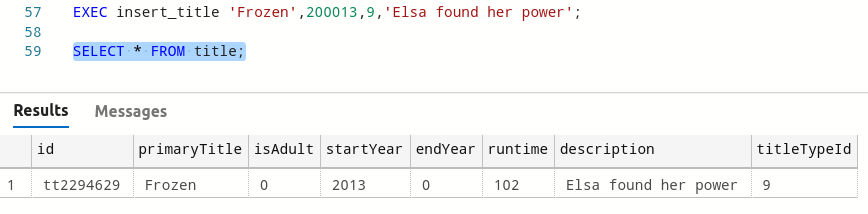
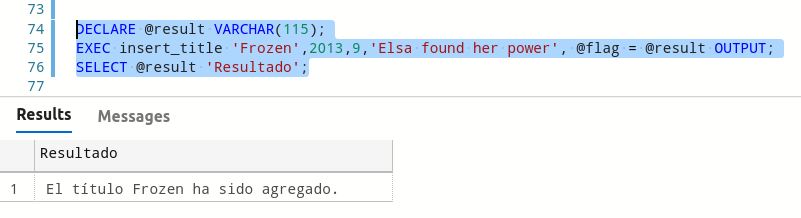
fix stored procedure

diff --git a/client/main.py b/client/main.py
@@ -1,9 +1,10 @@
 import pymssql  
+import base64
 import os
 
 conn = pymssql.connect(server='192.168.1.31', 
     user='SA', 
-    password='amarillo8S*', 
+    password= base64.b64decode('YW1hcmlsbG84Uyo='.encode('ascii')).decode('ascii'), 
     database='NETFLIX')
 
 def new_title():
@@ -22,22 +23,39 @@ def new_title():
     cod_type = input("\n:: Enter the type of your title > ")
     desc = input(":: Enter a short description > ")
 
-
-    input("The title " + str(title) + " has been added.")
+    #res = cursor.execute('EXEC insert_title \'%' + str(title) + '%\', ' + str(year) + ', ' + str(cod_type) + ', \'' + str(desc) + '\';')
+    res = cursor.callproc('insert_title', ('%' + str(title) + '%', str(year), str(cod_type), str(desc)))
+    print("EL RESULTADO ES > ")
+    print(res)
+    input("\nThe title " + str(title) + " has been added.")
     eleccion = input("\n\n:: Would you like to add another title? [Y/n] > ")
     
     if eleccion == 'Y' or eleccion == 'y':
         new_title()
+    else: menu()
+
+def menu():
+    print("\t1. Add new title")
+    print("\t2. Search by title")
+    print("\t3. Search by title with rating")
+    print("\t4. Exit")
+    option = input("\n:: What do you want to do? > ")
+
+    if int(option) == 1:
+        eleccion = input (":: Would you like to add new title? [Y/n] > ")
+        if eleccion == 'Y' or eleccion == 'y':
+            new_title()
+        else: menu()
+    elif int(option) == 4: exit()
+    else: menu()
 
 def inicio():
     print("\n\n **** WELCOME TO NETFLIX ****")
     print(" created by Mariana Sic \n\n")
 
-    eleccion = input (":: Would you like to add new title? [Y/n] > ")
-    if eleccion == 'Y' or eleccion == 'y':
-        new_title()
+    menu()
 
-    
+def exit():    
     print("Thank you, see you later.")
 
 inicio()

diff --git a/README.md b/README.md
@@ -169,6 +169,7 @@ Se comienza creando y asignando el título de ```insert_title``` y con parámetr
 |@anio|Es de tipo ```int```, contiene el año de inicio, osea el año en el que se inició o estrenó el título a almacenar|
 |@tipo_titulo|Es de tipo ```int```, contiene el tipo de título que es (ya sea, tvSerie, show, movie, etc)|
 |@desc|Es de tipo ```varchar```, contiene una breve descripción del título que se va a almacenar|
+|@flag|Es de tipo ```varchar```, parámetro de salida para imprimir el resultado del procedimiento almacenado|
 
 Se crea el procedimiento y sus parámetros:
 ```sql
@@ -177,6 +178,7 @@ CREATE PROCEDURE insert_title
     @anio int, 
     @tipo_titulo int, 
     @desc varchar(5000)
+    @flag varchar(115) OUTPUT
 ```
 
 Luego se hace uso de una variable ```@id_title``` la cual almacena el id del título en dado ya esté registrado en la base de datos de IMDB
@@ -186,7 +188,7 @@ DECLARE @id_title VARCHAR(115);
 
 SET @id_title = (
     SELECT TOP 1 tl.id FROM [192.168.1.2].IMDB.dbo.title tl
-    WHERE UPPER(tl.primaryTitle) = UPPER(@titulo) AND tl.startYear = @anio AND tl.titleTypeId = @tipo_titulo
+    WHERE UPPER(tl.primaryTitle) LIKE UPPER(@titulo) AND tl.startYear = @anio AND tl.titleTypeId = @tipo_titulo
 );
 ```
 
@@ -196,14 +198,17 @@ Se hace la respectiva verificación si la variable es nula o no (es decir, si el
 IF @id_title IS NULL
     BEGIN
         -- SIGNIFICA QUE EL TITULO NO ESTA EN EL CATALOGO DE IMDB
-        RETURN(1)
+        SET @flag = 'El título ' + @titulo + ' no se ha encontrado.';
+        RETURN
     END
 ```
 
-En dado caso ya exista, se inserta en las tablas respectivas que se han mencionado antes
+En dado caso ya exista, se inserta en las tablas respectivas que se han mencionado antes.
+
+Además se vuelve a verificar que no exista el título a agregar en la base de datos de Netflix 
 
 ```sql
-ELSE
+IF (SELECT primaryTitle FROM title t WHERE t.id = @id_title) IS NULL
     BEGIN
         -- INSERTAR A LA TABLA TITLE
         INSERT INTO title(id, primaryTitle, isAdult, startYear, endYear, runtime, [description], titleTypeId)
@@ -227,6 +232,9 @@ ELSE
         FROM [192.168.1.2].IMDB.dbo.director dr, role 
         WHERE dr.titleId = @id_title AND role.name = 'writer';
 
+        -- INSERT TITLE_GENRE
+        INSERT INTO title_genre(genreId, titleId) VALUES (@tipo_titulo, @id_title);
+
         -- INSERTAR A LA TABLA EPISODE
         IF (SELECT count(*) FROM [192.168.1.2].IMDB.dbo.episode ep WHERE ep.parentId = @id_title) > 0
             BEGIN
@@ -235,7 +243,18 @@ ELSE
                 FROM [192.168.1.2].IMDB.dbo.episode ep WHERE ep.parentId = @id_title;
             END
 
-        RETURN(0)
+        SET @flag = 'El título ' + @titulo + ' ha sido agregado.';
+        RETURN
+    END
+```
+
+Y si ya ha sido agregado antes, no se agrega nada en la base de datos
+
+```sql
+ELSE
+    BEGIN
+        SET @flag = 'El título ' + @titulo + ' ya ha sido agregado antes.';
+        RETURN
     END
 ```
 
@@ -244,7 +263,9 @@ El procedimiento almacenado completo se encuentra en el archivo [```stored.sql``
 Luego ya solo se ejecuta con la instrucción
 
 ```sql
-EXEC insert_title 'Frozen',2013,9,'Elsa found her power';
+DECLARE @result VARCHAR(115);
+EXEC insert_title 'Frozen',2013,9,'Elsa found her power', @flag = @result OUTPUT;
+SELECT @result 'Resultado';
 ```
 
 ![](img/exec.png)
